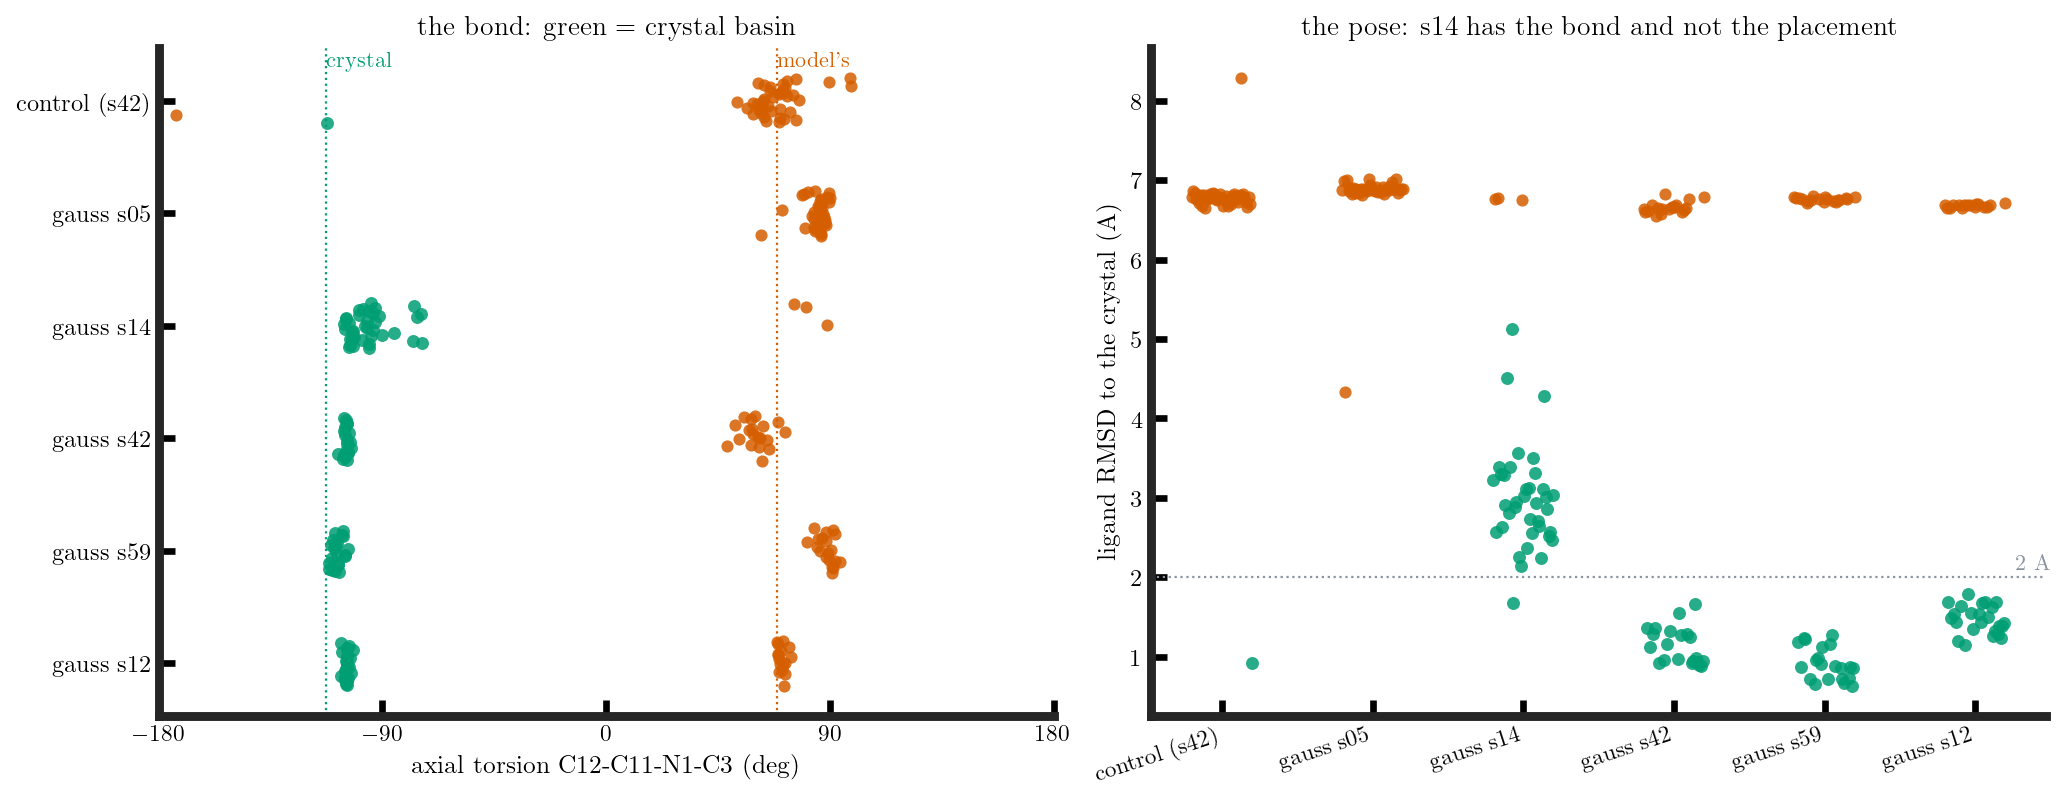
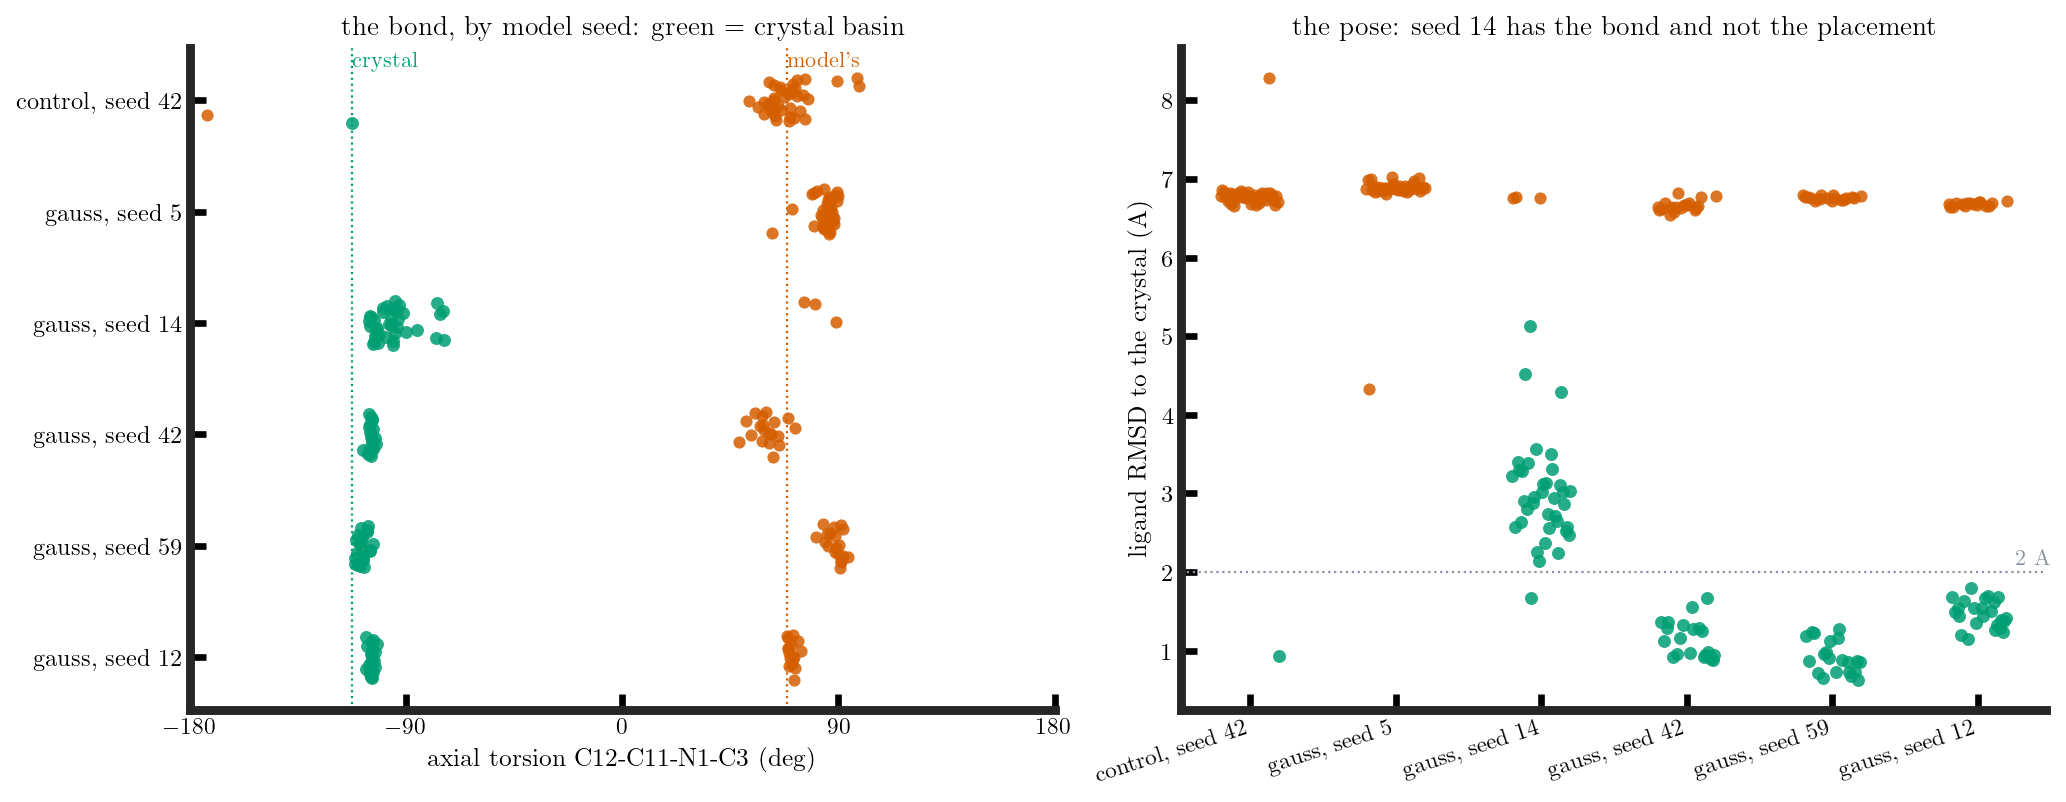
Say what the arm suffixes and the torsion are, and add the injection
Three things a reader of notebook 5 could not get from the notebook itself.

The `-sNN` in an arm name is the model seed and nothing else: the same gauss
write on the same 33 rows, applied to a different trunk output. The table and
the figure now say so rather than leaving `gauss s14` to be decoded, and the
figure labels read "gauss, seed 14".

`axial_torsion_deg` is now described where it is first scored: the twist about
the ligand's N1-C11 bond, the N-aryl bond joining the two pyridinone rings, read
through the ortho atoms C12 and C3. Both flanks are substituted, so it is a
stereogenic axis rather than a rotatable bond, which is why the draws arrive in
two clumps 178.7 degrees apart instead of spread round the circle. Checked
against the deposited ligand: the connectivity is read off data/reference/8sge/
system.cif and the C12-C11-N1-C3 dihedral of the crystal pose recomputes to
-101.4 degrees, matching axis.CRYSTAL_TORSION.

The step-140 coordinate injection is now on the same map as the s_lig write: a
second marker on the hand-off diagram, and a section giving what was done, why
140 is the only usable window, and the 520-row ladder summarised per injected
angle. Notebook 4 keeps the committor itself; this is the pointer, and it says
that the ladder's extractor needs the original run tree.

Cells were re-executed, so the committed outputs are the new ones. No data
changed and 86 tests pass.

diff --git a/README.md b/README.md
@@ -131,7 +131,7 @@ data.
 | `02_baselines.ipynb` | the unperturbed rate on four systems, with familiarity beside it |
 | `03_tcp_arms.ipynb` | Boltz-Perturb's TCP against ours, and the frozen control |
 | `04_committor.ipynb` | the committor along the hindered axis, and the tilt of the landscape |
-| `05_slig_gauss.ipynb` | where the noise goes: the hook, the tensor it writes, and what that is worth |
+| `05_slig_gauss.ipynb` | where the noise goes: the hook, the tensor it writes, what that is worth, and the step-140 write beside it |
 
 ## What is in here
 
